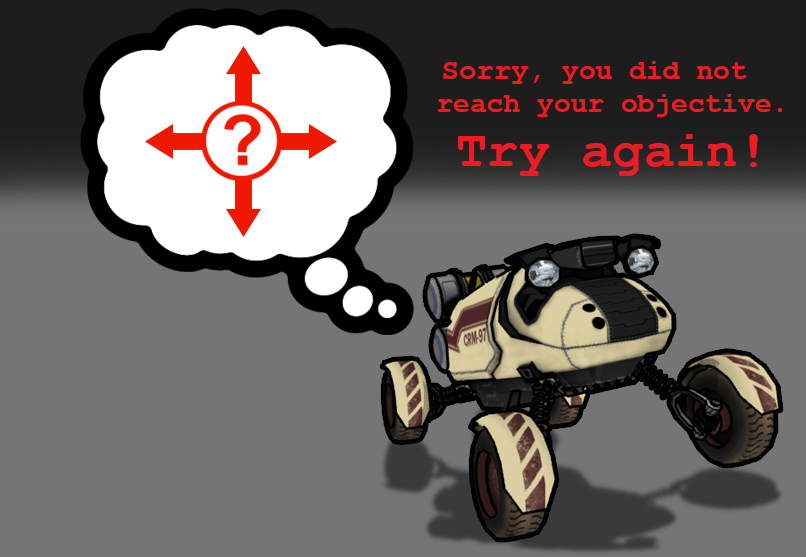
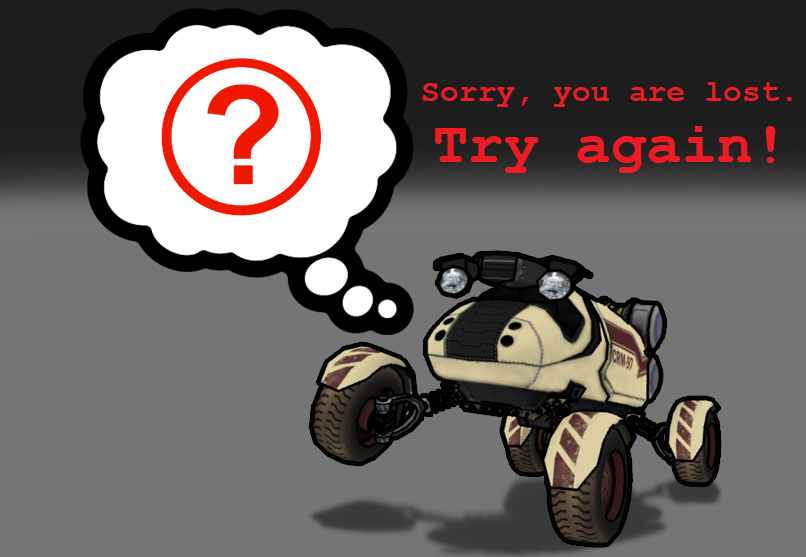
Hook up failure screen for scenario2

Changed region(s): [[0.3722, 0.3968, 0.9926, 1.0], [0.5273, 0.0916, 0.9926, 0.3357], [0.1861, 0.0916, 0.4342, 0.4273]]

diff --git a/source/popupManager.js b/source/popupManager.js
@@ -48,7 +48,9 @@ function showFailScreen( type ) {
         } else if ( type === "battery" ) {
             failScreen.style.backgroundImage = "url('assets/images/failureScreens/fail_no_power.jpg')";
         } else if ( type === "incomplete" ) {
-            failScreen.style.backgroundImage = "url('assets/images/failureScreens/fail_lost.jpg')";        
+            failScreen.style.backgroundImage = "url('assets/images/failureScreens/fail_incomplete.jpg')";        
+        } else if ( type === "lost" ) {
+            failScreen.style.backgroundImage = "url('assets/images/failureScreens/fail_lost.jpg')";                    
         }
         failScreen.onclick = function() {
             removeFailScreen();        
